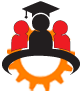
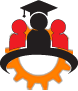
some work on All category

Changed region(s): [[0.0, 0.0, 1.0, 0.989]]

diff --git a/src/Body/AllCatagory/StudentCorner.jsx b/src/Body/AllCatagory/StudentCorner.jsx
@@ -4,8 +4,8 @@ export default function StudentCorner() {
   return (
     <div className='bg-[#FCFCFC] shadow-md shadow-slate-400 p-3 h-full'>
         <h2 className=' font-semibold'>শিক্ষার্থী</h2>
-        <div className='flex flex-wrap gap-5 items-center ' >
-            <img className='w-20 h-32' src={StudentCornerimg} alt="Academicimg" />
+        <div className='flex gap-3 items-center ' >
+            <img className='w-20 h-28' src={StudentCornerimg} alt="Academicimg" />
             <ul className='text-slate-500 text-[13px] px-3'>
                 <li className='flex items-center'><Link target='_blank' to={"https://www.google.com/drive/"}><span className=" text-2xl pr-1">▸</span> নিয়ম এবং প্রবিধান</Link></li>
 

diff --git a/src/Layout/Result.jsx b/src/Layout/Result.jsx
@@ -5,7 +5,7 @@ export default function Result() {
     const style='border border-slate-300 p-5'
 
   return (
-    <div>
+    <div className=" mb-5">
         <table className="border-collapse border border-slate-400 text-[13px]">
             <tr>
                 <th className={`${style}`}>ফলাফল প্রকাশের তারিখ</th>
